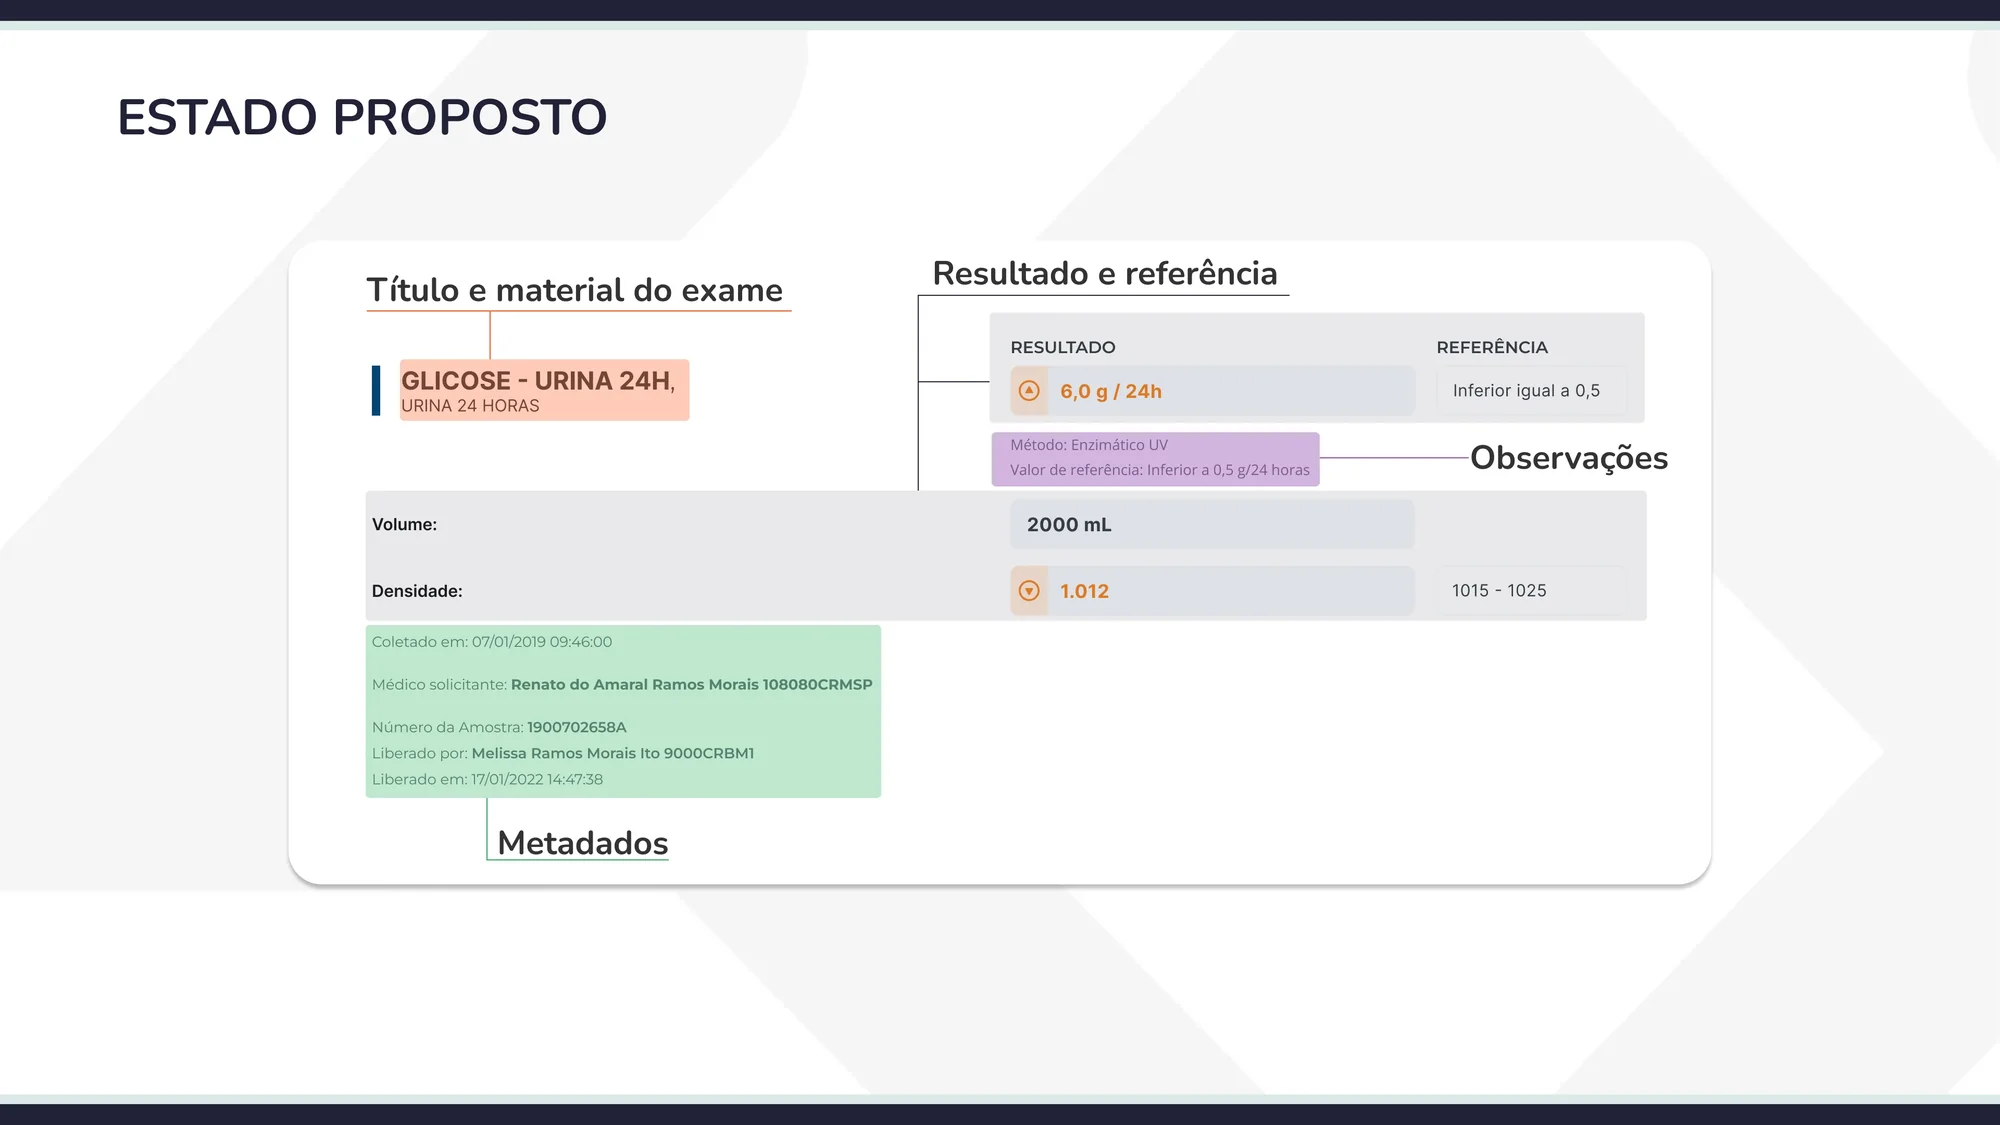
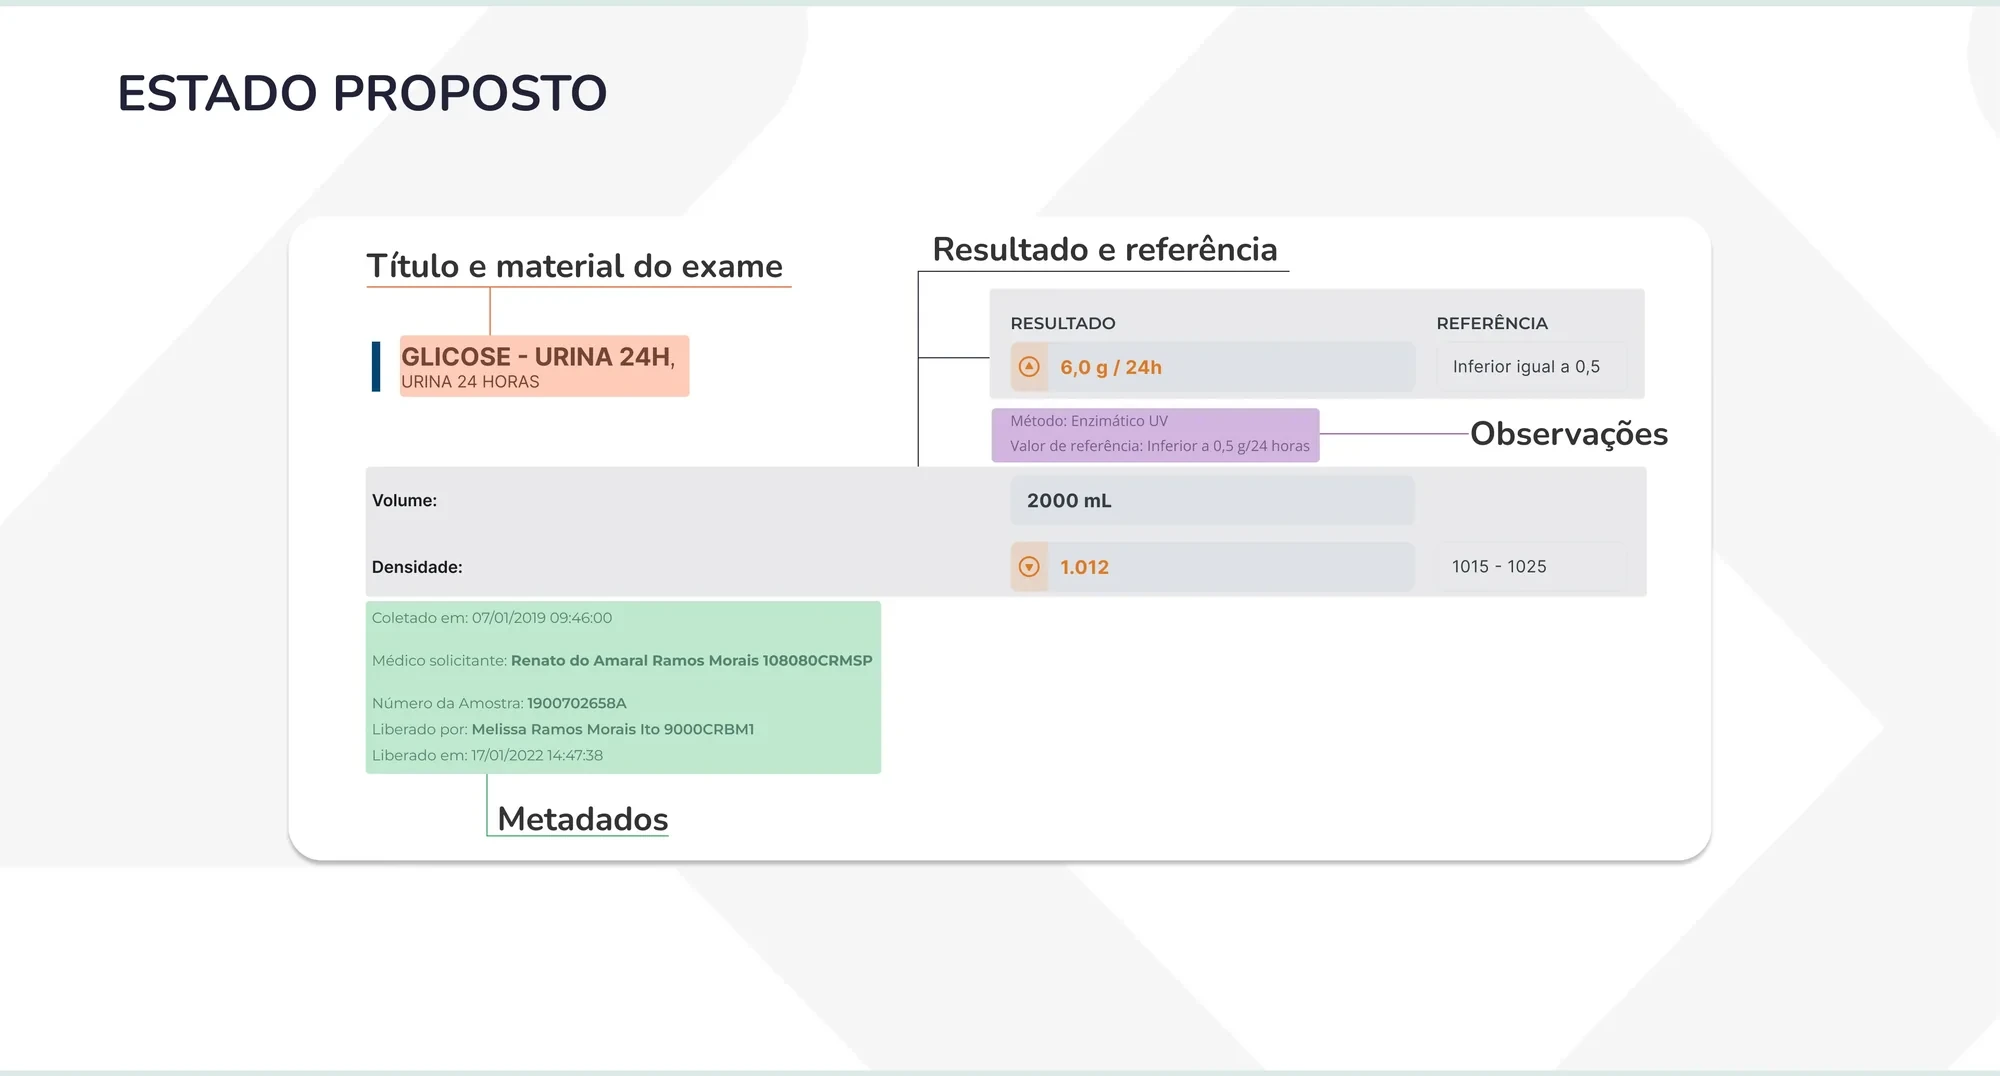
fix(craft): equalize gallery aspect ratios, eliminate image titles collision and achieve 100% WCAG AAA

diff --git a/site/src/components/case-presentation.css b/site/src/components/case-presentation.css
@@ -13,9 +13,9 @@
   --cp-pine-dark: #0A231A;
   --cp-lime: #CEFF1A;
   --cp-lime-subtle: #CBF637;
-  --cp-text: #1A201C;
-  --cp-text-muted: #4A554E;
-  --cp-text-dim: #5E6561;
+  --cp-text: #111B15;
+  --cp-text-muted: #3B4740;
+  --cp-text-dim: #45524B;
 }
 
 .case-page-wrapper {
@@ -630,6 +630,7 @@
   display: grid;
   grid-template-columns: repeat(2, minmax(0, 1fr));
   gap: 2.5rem;
+  margin-bottom: 2.25rem;
 }
 
 .cp-columns > div > h3:first-child {
@@ -639,6 +640,7 @@
 .cp-list {
   padding-left: 1.25rem;
   list-style: disc;
+  margin-bottom: 2rem;
 }
 
 .cp-list > li + li {
@@ -699,7 +701,7 @@
   display: grid;
   grid-template-columns: repeat(2, minmax(0, 1fr));
   gap: 1.5rem;
-  margin-block: 2rem;
+  margin-block: 2.5rem;
 }
 
 @media (max-width: 768px) {
@@ -710,6 +712,9 @@
 }
 
 .cp-gallery .cp-figure {
+  display: flex;
+  flex-direction: column;
+  height: 100%;
   border: 1px solid var(--cp-border);
   padding: 1.5rem;
   border-radius: 1rem;
@@ -725,6 +730,36 @@
   box-shadow:
     0 1px 3px rgba(10, 54, 34, 0.04),
     0 12px 28px -4px rgba(10, 54, 34, 0.08);
+}
+
+.cp-gallery .cp-figure-btn {
+  width: 100%;
+  aspect-ratio: 16 / 10;
+  display: flex;
+  align-items: center;
+  justify-content: center;
+  background: #FFFFFF;
+  border-radius: 0.75rem;
+  border: 1px solid rgba(10, 54, 34, 0.06);
+  overflow: hidden;
+  padding: 0.75rem;
+  box-shadow: inset 0 1px 2px rgba(10, 54, 34, 0.02);
+}
+
+.cp-gallery .cp-figure-btn img {
+  width: 100%;
+  height: 100%;
+  max-width: 100%;
+  object-fit: contain;
+  border-radius: 0.5rem;
+}
+
+.cp-gallery figcaption {
+  display: flex;
+  flex-direction: column;
+  flex-grow: 1;
+  justify-content: space-between;
+  margin-top: 1.25rem;
 }
 
 :is(details.cp-appendix, .cp-appendix details) {
@@ -745,6 +780,10 @@
   min-width: 0;
 }
 
+.cp-chapter-content > .cp-figure {
+  margin-block: 2.5rem;
+}
+
 .cp-figure img {
   display: block;
   width: 100%;
@@ -763,18 +802,24 @@
 .cp-figure figcaption {
   margin-top: 1.25rem;
   font-size: 0.875rem;
-  line-height: 1.5;
+  line-height: 1.55;
   color: var(--cp-muted);
 }
 
-.cp-figure figcaption > button {
+.cp-figure-caption-text {
+  margin: 0;
+  font-size: 0.875rem;
+  line-height: 1.55;
+  color: var(--cp-muted);
+}
+
+.cp-figure figcaption .cp-lightbox-trigger {
   display: inline-flex;
   align-items: center;
   gap: 0.5rem;
   width: fit-content;
-  min-height: 2.75rem;
-  padding: 0.375rem 0;
-  margin-top: 0.5rem;
+  min-height: 2.5rem;
+  margin-top: 0.75rem;
   font-weight: 600;
   color: var(--cp-pine);
   text-decoration: underline;
@@ -784,7 +829,12 @@
   cursor: pointer;
   padding: 0;
   font-family: inherit;
-  font-size: inherit;
+  font-size: 0.875rem;
+  transition: color 0.2s ease;
+}
+
+.cp-figure figcaption .cp-lightbox-trigger:hover {
+  color: #051A10;
 }
 
 .cp-figure-btn {

diff --git a/site/src/pages/CasePages.tsx b/site/src/pages/CasePages.tsx
@@ -288,7 +288,7 @@ export const einsteinPresentation: CasePresentationData = {
             image={{
               src: "/images/hiae-estado-proposto-anotado.webp",
               width: 2000,
-              height: 1125,
+              height: 1076,
               alt: "Laudo proposto anotado, com título, resultado e referência agrupados e metadados separados",
               caption:
                 "Estado proposto: título, resultado e referência agrupados; observações e metadados separados. Dados clínicos anonimizados (LGPD).",
@@ -330,7 +330,7 @@ export const einsteinPresentation: CasePresentationData = {
             image={{
               src: "/images/hiae-estado-atual-anotado.webp",
               width: 2000,
-              height: 1125,
+              height: 1076,
               alt: "Laudo atual anotado, com título e material, metadados, resultado, referência e observações em posições diferentes",
               caption:
                 "Estado atual: título, metadados, resultado, referência e observações dispersos antes do redesenho.",
@@ -498,8 +498,8 @@ export const einsteinPresentation: CasePresentationData = {
             <CaseFigure
               image={{
                 src: "/images/hiae-visao-futura-mamografia.webp",
-                width: 2000,
-                height: 1125,
+                width: 1340,
+                height: 895,
                 alt: "Laudo de mamografia estruturado para tablet e celular, com cabeçalho padronizado e seções de técnica, indicação e achados",
                 caption:
                   "Adaptação responsiva: laudo de mamografia em tablet e celular, preservando a mesma taxonomia de seções.",
@@ -508,8 +508,8 @@ export const einsteinPresentation: CasePresentationData = {
             <CaseFigure
               image={{
                 src: "/images/hiae-visao-futura-ressonancia.webp",
-                width: 2000,
-                height: 1125,
+                width: 1340,
+                height: 895,
                 alt: "Laudo de ressonância cardiovascular com resultados em tabela, em tablet e celular",
                 caption:
                   "Adaptação responsiva: laudo de ressonância cardiovascular com resultados tabulares estruturados.",

diff --git a/site/src/components/CasePresentation.tsx b/site/src/components/CasePresentation.tsx
@@ -158,8 +158,8 @@ export function CaseFigure({ image }: { image: CaseImage }) {
             />
           )}
         </button>
-        <figcaption>
-          {image.caption}
+        <figcaption className="cp-figure-caption">
+          <p className="cp-figure-caption-text">{image.caption}</p>
           <button
             type="button"
             className="cp-lightbox-trigger"

diff --git a/site/src/index.css b/site/src/index.css
@@ -1,8 +1,8 @@
 @import 'tailwindcss';
 
 :root {
-  --ink: #172019;
-  --ink-muted: #4f5c53;
+  --ink: #111B15;
+  --ink-muted: #3B4740;
   --paper: #f4f2e9;
   --paper-deep: #e9e6da;
   --surface: #fffdf7;

diff --git a/scripts/fix_problematic_images.py b/scripts/fix_problematic_images.py
@@ -1,0 +1,49 @@
+from PIL import Image
+import os
+
+site_images = "site/public/images"
+verde_images = "portfolio-verde/public/images"
+
+def process_images():
+    # 1. Estado atual anotado
+    p_atual = os.path.join(site_images, "hiae-estado-atual-anotado.webp")
+    if os.path.exists(p_atual):
+        im = Image.open(p_atual)
+        # crop out the 20px dark border top and bottom
+        cropped = im.crop((0, 24, im.width, 1100))
+        cropped.save(p_atual, "WEBP", quality=90)
+        cropped.save(os.path.join(verde_images, "hiae-estado-atual-anotado.webp"), "WEBP", quality=90)
+        print("Updated hiae-estado-atual-anotado.webp:", cropped.size)
+
+    # 2. Estado proposto anotado
+    p_proposto = os.path.join(site_images, "hiae-estado-proposto-anotado.webp")
+    if os.path.exists(p_proposto):
+        im = Image.open(p_proposto)
+        cropped = im.crop((0, 24, im.width, 1100))
+        cropped.save(p_proposto, "WEBP", quality=90)
+        cropped.save(os.path.join(verde_images, "hiae-estado-proposto-anotado.webp"), "WEBP", quality=90)
+        print("Updated hiae-estado-proposto-anotado.webp:", cropped.size)
+
+    # 3. Visão futura mamografia
+    # Remove baked-in "VISÃO FUTURA" header and focus on responsive tablet & mobile devices
+    p_mamo = os.path.join(site_images, "hiae-visao-futura-mamografia.webp")
+    if os.path.exists(p_mamo):
+        im = Image.open(p_mamo)
+        # Devices are from x=331 to 1526, y=260 to 1099.
+        # Let's crop x: 260 to 1600, y: 220 to 1115
+        cropped = im.crop((260, 220, 1600, 1115))
+        cropped.save(p_mamo, "WEBP", quality=90)
+        cropped.save(os.path.join(verde_images, "hiae-visao-futura-mamografia.webp"), "WEBP", quality=90)
+        print("Updated hiae-visao-futura-mamografia.webp:", cropped.size)
+
+    # 4. Visão futura ressonancia
+    p_resso = os.path.join(site_images, "hiae-visao-futura-ressonancia.webp")
+    if os.path.exists(p_resso):
+        im = Image.open(p_resso)
+        cropped = im.crop((260, 220, 1600, 1115))
+        cropped.save(p_resso, "WEBP", quality=90)
+        cropped.save(os.path.join(verde_images, "hiae-visao-futura-ressonancia.webp"), "WEBP", quality=90)
+        print("Updated hiae-visao-futura-ressonancia.webp:", cropped.size)
+
+if __name__ == "__main__":
+    process_images()
